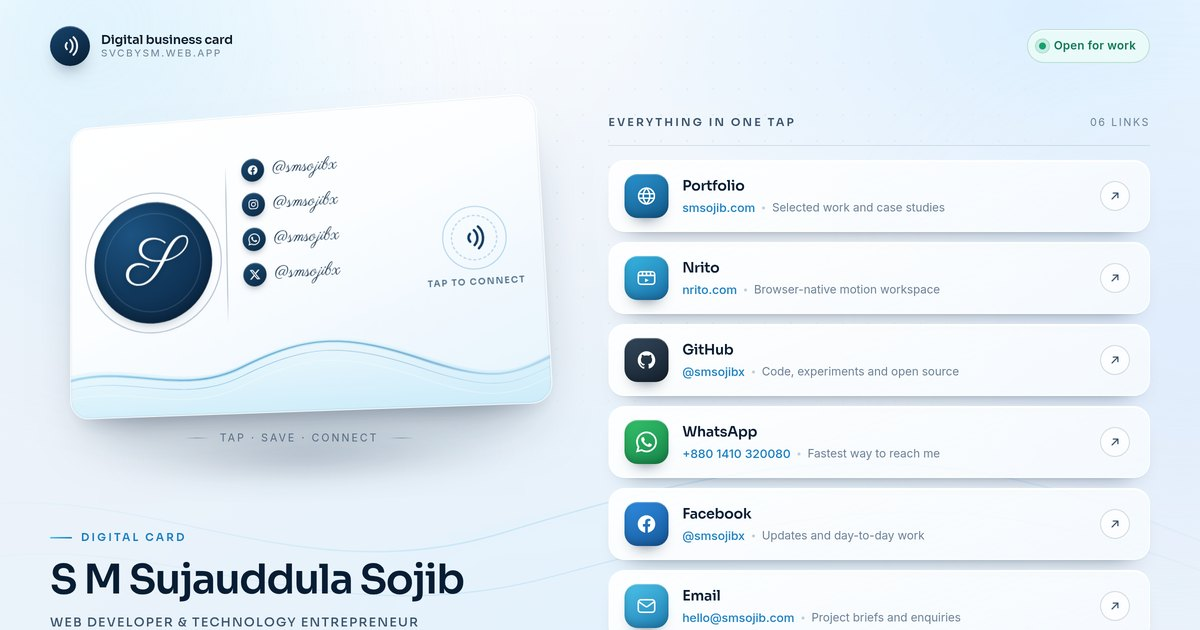
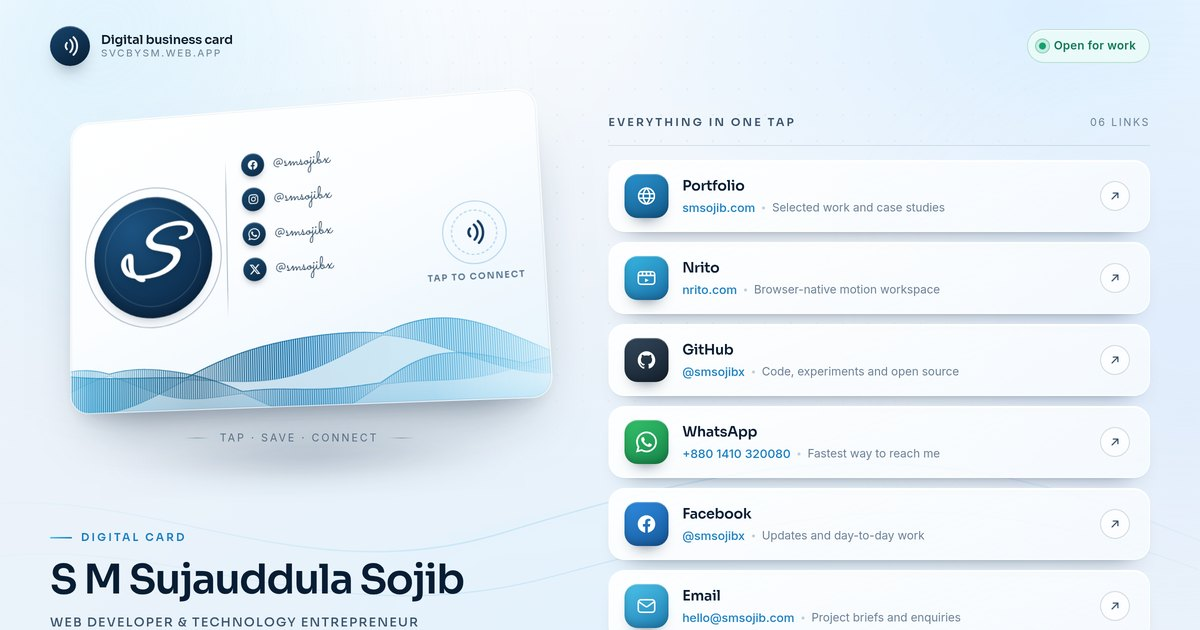
Match the printed card artwork: signature S monogram and ruled mesh wave
- Monogram switches to a signature script with a slight slant and thicker stroke
- Card wave rebuilt as a ruled mesh ribbon (twisted band, gradient ink, multiply blend)
- Handles use a monoline handwriting face consistent with the card

diff --git a/client/src/components/CardWave.tsx b/client/src/components/CardWave.tsx
@@ -1,0 +1,101 @@
+/**
+ * The printed card's wave is a twisted ribbon rendered as a fine ruled mesh:
+ * many short strokes spanning the band, long where the ribbon faces the viewer
+ * and short where it turns edge-on. This rebuilds that surface in SVG.
+ */
+
+type Ribbon = {
+  id: string;
+  phase: number;
+  freq: number;
+  twist: number;
+  amplitude: number;
+  baseline: number;
+  half: number;
+  opacity: number;
+  width: number;
+};
+
+const RIBBONS: Ribbon[] = [
+  { id: "a", phase: 0.55, freq: 1.0, twist: 1.35, amplitude: 50, baseline: 182, half: 38, opacity: 1, width: 1.9 },
+  { id: "b", phase: 3.35, freq: 1.45, twist: 1.95, amplitude: 34, baseline: 232, half: 27, opacity: 0.85, width: 1.5 },
+];
+
+const X_START = -30;
+const X_END = 830;
+const STEP = 3.5;
+
+function curveY(x: number, ribbon: Ribbon) {
+  const t = (x - X_START) / (X_END - X_START);
+  return (
+    ribbon.baseline +
+    ribbon.amplitude * Math.sin(t * Math.PI * 2 * ribbon.freq + ribbon.phase) +
+    ribbon.amplitude * 0.22 * Math.sin(t * Math.PI * 2 * ribbon.freq * 2.3 + ribbon.phase * 0.8)
+  );
+}
+
+function halfThickness(x: number, ribbon: Ribbon) {
+  const t = (x - X_START) / (X_END - X_START);
+  return 2 + ribbon.half * Math.abs(Math.sin(t * Math.PI * 2 * ribbon.twist + ribbon.phase * 1.4));
+}
+
+function buildRibbon(ribbon: Ribbon) {
+  const strokes: { x: number; y1: number; y2: number; o: number }[] = [];
+  const top: string[] = [];
+  const bottom: string[] = [];
+  for (let x = X_START; x <= X_END; x += STEP) {
+    const centre = curveY(x, ribbon);
+    const half = halfThickness(x, ribbon);
+    strokes.push({ x, y1: centre - half, y2: centre + half, o: 0.3 + 0.7 * (half / (ribbon.half + 2)) });
+    top.push(`${x === X_START ? "M" : "L"}${x.toFixed(1)} ${(centre - half).toFixed(1)}`);
+    bottom.push(`${x === X_START ? "M" : "L"}${x.toFixed(1)} ${(centre + half).toFixed(1)}`);
+  }
+  return { strokes, top: top.join(" "), bottom: bottom.join(" ") };
+}
+
+const RIBBON_STROKES = RIBBONS.map((ribbon) => ({ ribbon, ...buildRibbon(ribbon) }));
+
+export function CardWave() {
+  return (
+    <svg className="nfc-card__wave" viewBox="0 0 800 300" preserveAspectRatio="none" aria-hidden>
+      <defs>
+        {RIBBONS.map((ribbon) => (
+          <linearGradient key={ribbon.id} id={`mesh-${ribbon.id}`} gradientUnits="userSpaceOnUse" x1="-30" y1="0" x2="830" y2="0">
+            <stop offset="0%" stopColor="#2fa3d4" stopOpacity="0" />
+            <stop offset="9%" stopColor="#1f92c6" stopOpacity="0.95" />
+            <stop offset="30%" stopColor="#08547f" stopOpacity="1" />
+            <stop offset="52%" stopColor="#0f78b4" stopOpacity="1" />
+            <stop offset="74%" stopColor="#2a9ed1" stopOpacity="0.95" />
+            <stop offset="92%" stopColor="#7fd0ee" stopOpacity="0.55" />
+            <stop offset="100%" stopColor="#cdeefb" stopOpacity="0" />
+          </linearGradient>
+        ))}
+        <linearGradient id="meshWash" x1="0" y1="0" x2="0" y2="1">
+          <stop offset="0%" stopColor="#bfeaf9" stopOpacity="0.03" />
+          <stop offset="65%" stopColor="#9adcf4" stopOpacity="0.2" />
+          <stop offset="100%" stopColor="#cdeefb" stopOpacity="0.38" />
+        </linearGradient>
+      </defs>
+
+      <rect x="0" y="238" width="800" height="62" fill="url(#meshWash)" />
+
+      {RIBBON_STROKES.map(({ ribbon, strokes, top, bottom }) => (
+        <g key={ribbon.id} opacity={ribbon.opacity}>
+          {/* soft body keeps the ruled surface reading as one ribbon */}
+          <path
+            d={`${top} L830 300 L-30 300 Z`}
+            fill={`url(#mesh-${ribbon.id})`}
+            opacity="0.16"
+          />
+          <g stroke={`url(#mesh-${ribbon.id})`} strokeWidth={ribbon.width} strokeLinecap="round">
+            {strokes.map((s) => (
+              <line key={`${ribbon.id}-${s.x}`} x1={s.x} y1={s.y1} x2={s.x} y2={s.y2} opacity={s.o} />
+            ))}
+          </g>
+          <path d={top} fill="none" stroke={`url(#mesh-${ribbon.id})`} strokeWidth="1.8" strokeOpacity="0.95" />
+          <path d={bottom} fill="none" stroke={`url(#mesh-${ribbon.id})`} strokeWidth="1" strokeOpacity="0.5" />
+        </g>
+      ))}
+    </svg>
+  );
+}

diff --git a/client/src/components/NfcCard.tsx b/client/src/components/NfcCard.tsx
@@ -1,6 +1,7 @@
 import { useRef } from "react";
 import { cardHandles, profile } from "@/content/profile";
 import { CardHandleIcon, NfcWaves } from "@/components/Icons";
+import { CardWave } from "@/components/CardWave";
 
 /**
  * A 1:1 replica of the printed NFC card — paper white, navy monogram,
@@ -36,60 +37,7 @@ export function NfcCard() {
       <div className="card-float">
         <div className="card-3d" ref={card}>
           <div className="nfc-card" role="img" aria-label={`NFC card of ${profile.name}`}>
-            <svg className="nfc-card__wave" viewBox="0 0 800 300" preserveAspectRatio="none" aria-hidden>
-              <defs>
-                <linearGradient id="waveA" x1="0" y1="0" x2="1" y2="1">
-                  <stop offset="0%" stopColor="#8ad8f2" stopOpacity="0.55" />
-                  <stop offset="38%" stopColor="#3fb0dd" stopOpacity="0.9" />
-                  <stop offset="72%" stopColor="#1a7fc1" stopOpacity="0.8" />
-                  <stop offset="100%" stopColor="#c9eefb" stopOpacity="0.6" />
-                </linearGradient>
-                <linearGradient id="waveStroke" x1="0" y1="0" x2="1" y2="0">
-                  <stop offset="0%" stopColor="#1a7fc1" stopOpacity="0.12" />
-                  <stop offset="30%" stopColor="#1a7fc1" stopOpacity="0.55" />
-                  <stop offset="70%" stopColor="#0f5f92" stopOpacity="0.4" />
-                  <stop offset="100%" stopColor="#1a7fc1" stopOpacity="0.1" />
-                </linearGradient>
-                <linearGradient id="waveFill" x1="0" y1="0" x2="0" y2="1">
-                  <stop offset="0%" stopColor="#bfeaf9" stopOpacity="0.15" />
-                  <stop offset="100%" stopColor="#9adcf4" stopOpacity="0.45" />
-                </linearGradient>
-              </defs>
-              {/* soft printed wash under the ribbons */}
-              <path
-                d="M-20 196 C 95 128, 195 236, 305 168 S 475 104, 595 168 S 735 206, 820 150 L 820 320 L -20 320 Z"
-                fill="url(#waveFill)"
-              />
-              {/* main ribbon */}
-              <path
-                d="M-20 208 C 92 138, 192 244, 302 176 S 472 112, 592 176 S 732 212, 820 158"
-                fill="none"
-                stroke="url(#waveA)"
-                strokeWidth="7"
-                strokeOpacity="0.28"
-                strokeLinecap="round"
-              />
-              {/* ribbon contours, like the fine lines on the printed card */}
-              <path
-                d="M-20 208 C 92 138, 192 244, 302 176 S 472 112, 592 176 S 732 212, 820 158"
-                fill="none"
-                stroke="url(#waveStroke)"
-                strokeWidth="2.4"
-              />
-              <path
-                d="M-20 228 C 92 160, 192 264, 302 196 S 472 132, 592 196 S 732 232, 820 178"
-                fill="none"
-                stroke="url(#waveStroke)"
-                strokeWidth="1"
-              />
-              <path
-                d="M-20 250 C 92 184, 192 286, 302 218 S 472 154, 592 218 S 732 252, 820 200"
-                fill="none"
-                stroke="#ffffff"
-                strokeOpacity="0.55"
-                strokeWidth="1.2"
-              />
-            </svg>
+            <CardWave />
 
             <div className="nfc-card__monogram">
               <span className="nfc-card__initial">{profile.monogram}</span>

diff --git a/client/src/index.css b/client/src/index.css
@@ -390,6 +390,7 @@ button {
   z-index: 1;
   transform: translateZ(6px);
   pointer-events: none;
+  mix-blend-mode: multiply;
 }
 
 .nfc-card__monogram {
@@ -427,12 +428,15 @@ button {
 }
 
 .nfc-card__initial {
-  font-family: "Parisienne", "Sora", cursive;
-  font-size: 13cqw;
+  font-family: "Alex Brush", "Sora", cursive;
+  font-size: 17cqw;
   line-height: 1;
   color: #fff;
-  transform: translateY(0.6cqw);
-  text-shadow: 0 2px 6px rgba(0, 0, 0, 0.28);
+  transform: translateY(0.4cqw);
+  -webkit-text-stroke: 0.45cqw #fff;
+  text-shadow: 0 2px 8px rgba(0, 0, 0, 0.3);
+  display: inline-block;
+  transform: skewX(-7deg);
 }
 
 .nfc-card__divider {
@@ -481,7 +485,7 @@ button {
 }
 
 .nfc-card__handle-text {
-  font-family: "Parisienne", cursive;
+  font-family: "Sacramento", cursive;
   font-size: 3.7cqw;
   color: #16344f;
   letter-spacing: 0.01em;

diff --git a/client/index.html b/client/index.html
@@ -24,7 +24,7 @@
     <link rel="preconnect" href="https://fonts.googleapis.com" />
     <link rel="preconnect" href="https://fonts.gstatic.com" crossorigin />
     <link
-      href="https://fonts.googleapis.com/css2?family=Sora:wght@300;400;500;600;700&family=Inter:wght@300;400;500;600&family=Parisienne&display=swap"
+      href="https://fonts.googleapis.com/css2?family=Sora:wght@300;400;500;600;700&family=Inter:wght@300;400;500;600&family=Alex+Brush&family=Sacramento&display=swap"
       rel="stylesheet"
     />
   </head>
